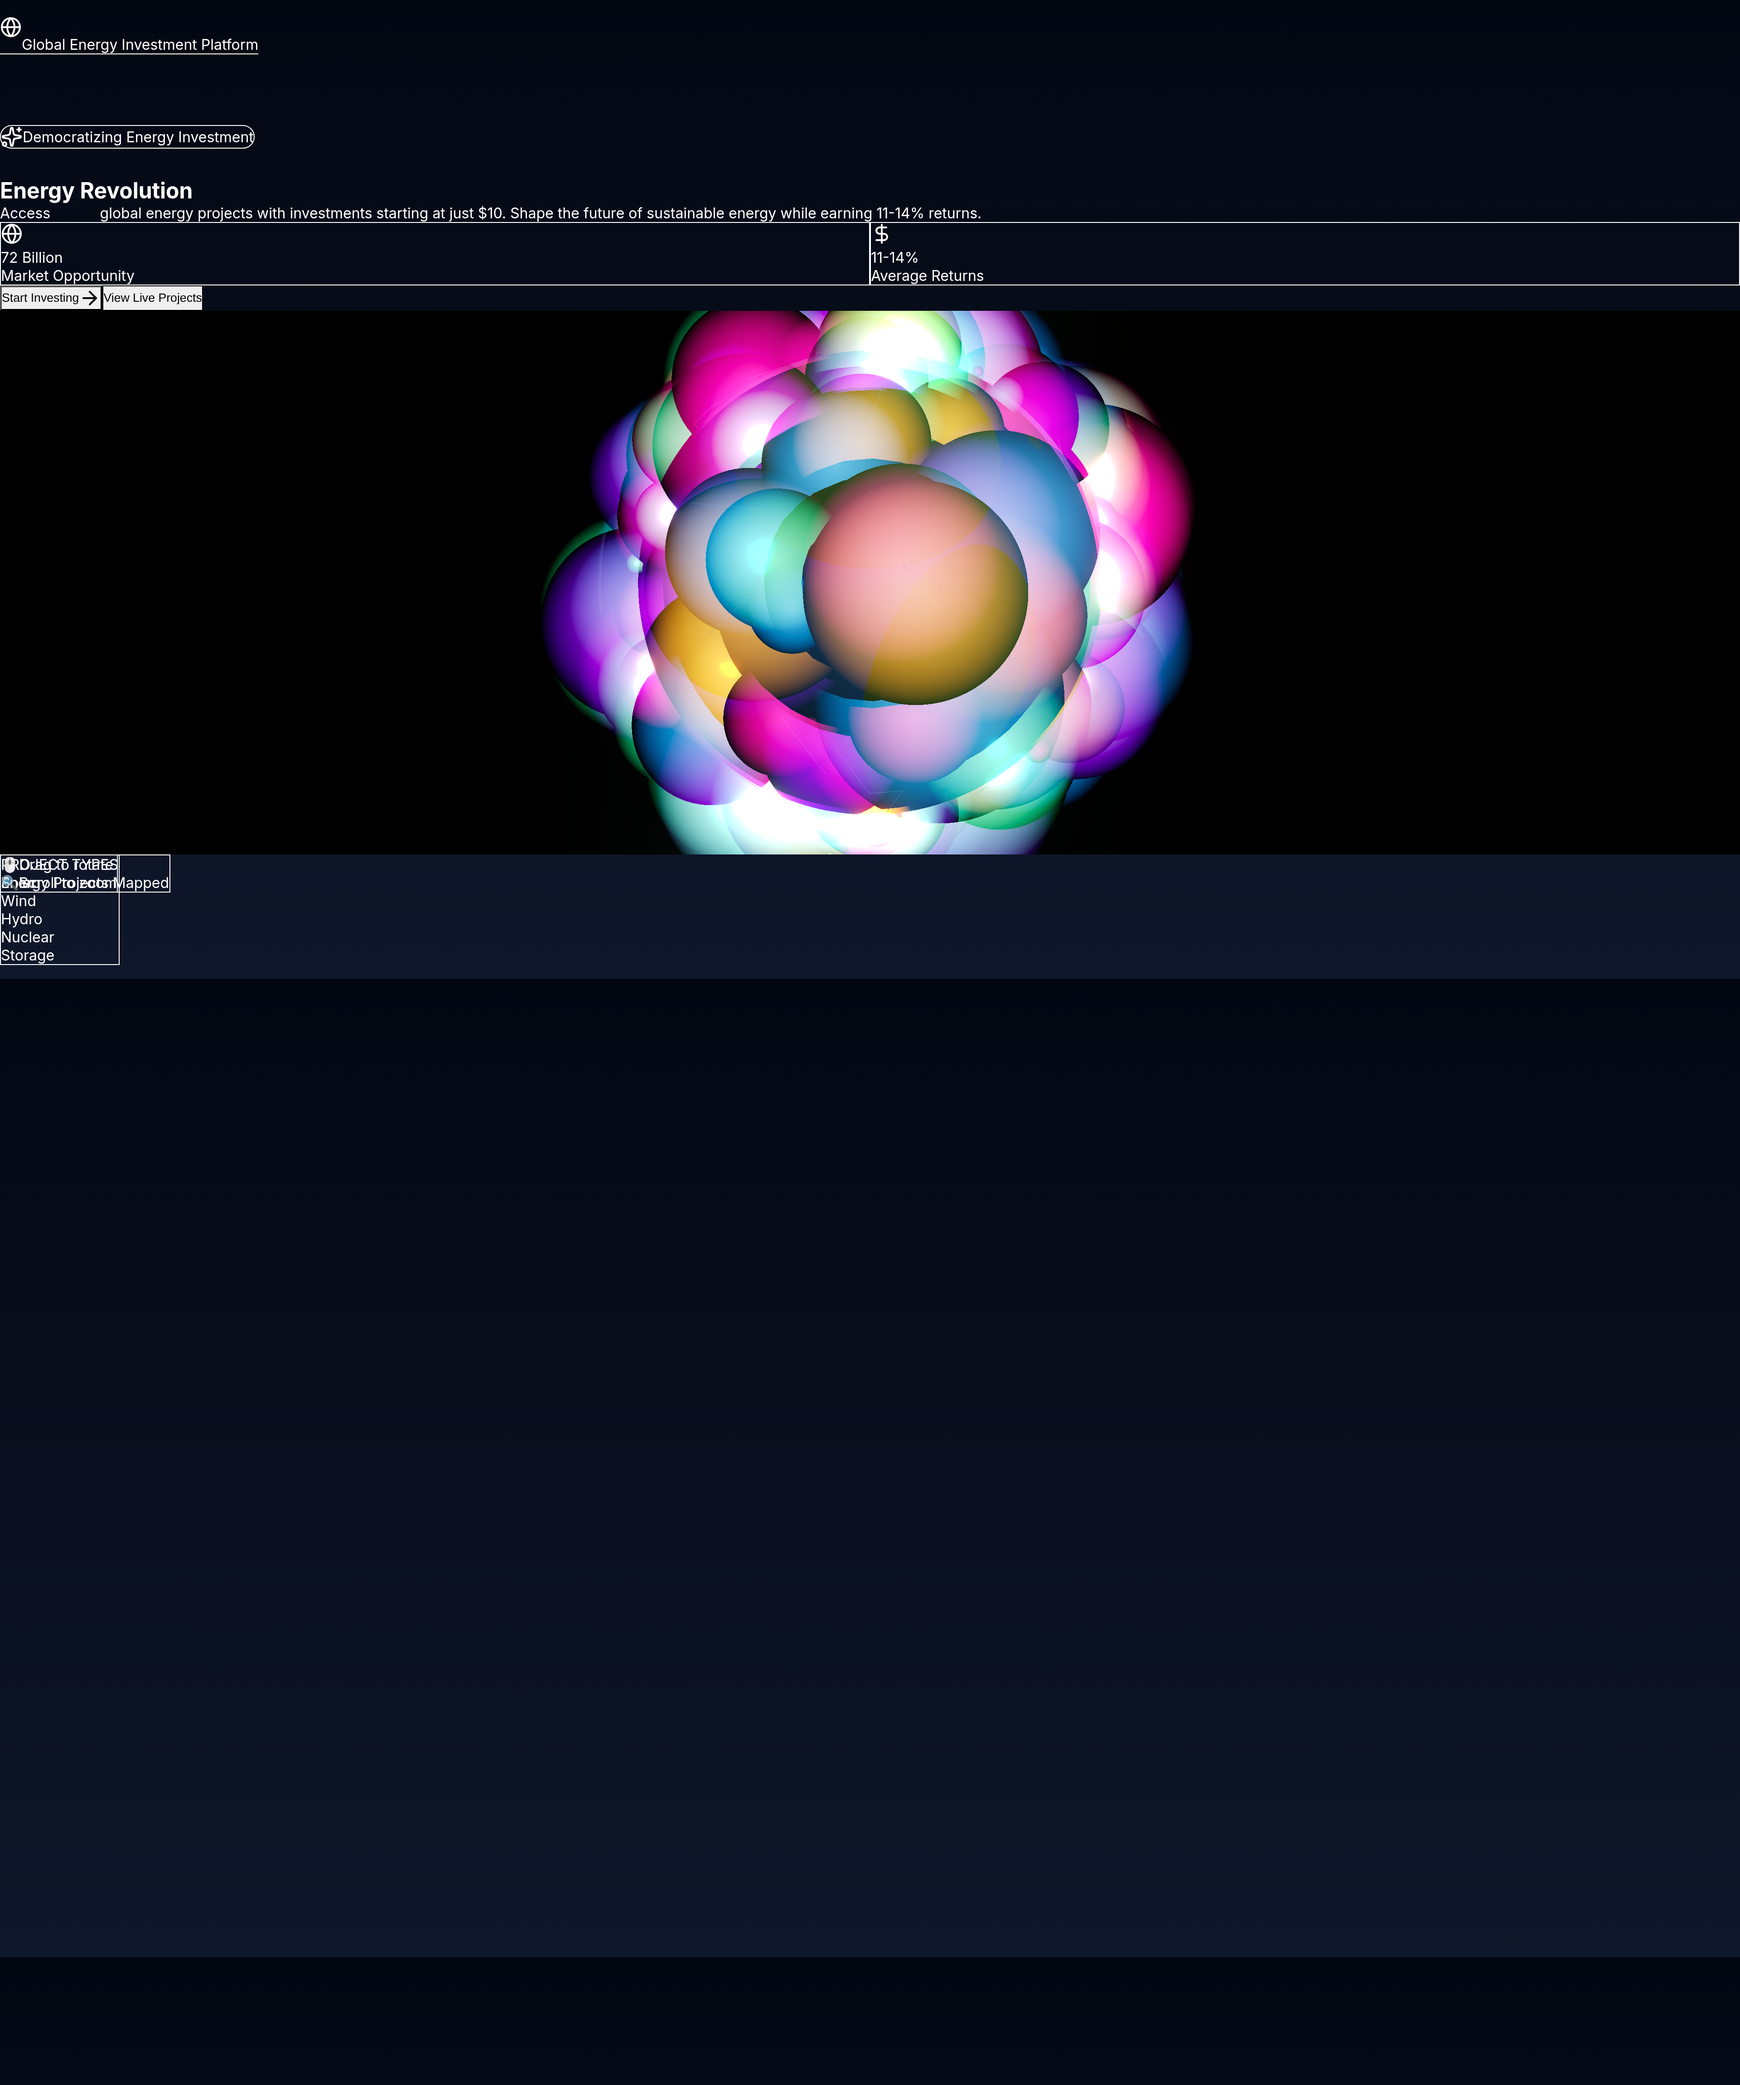
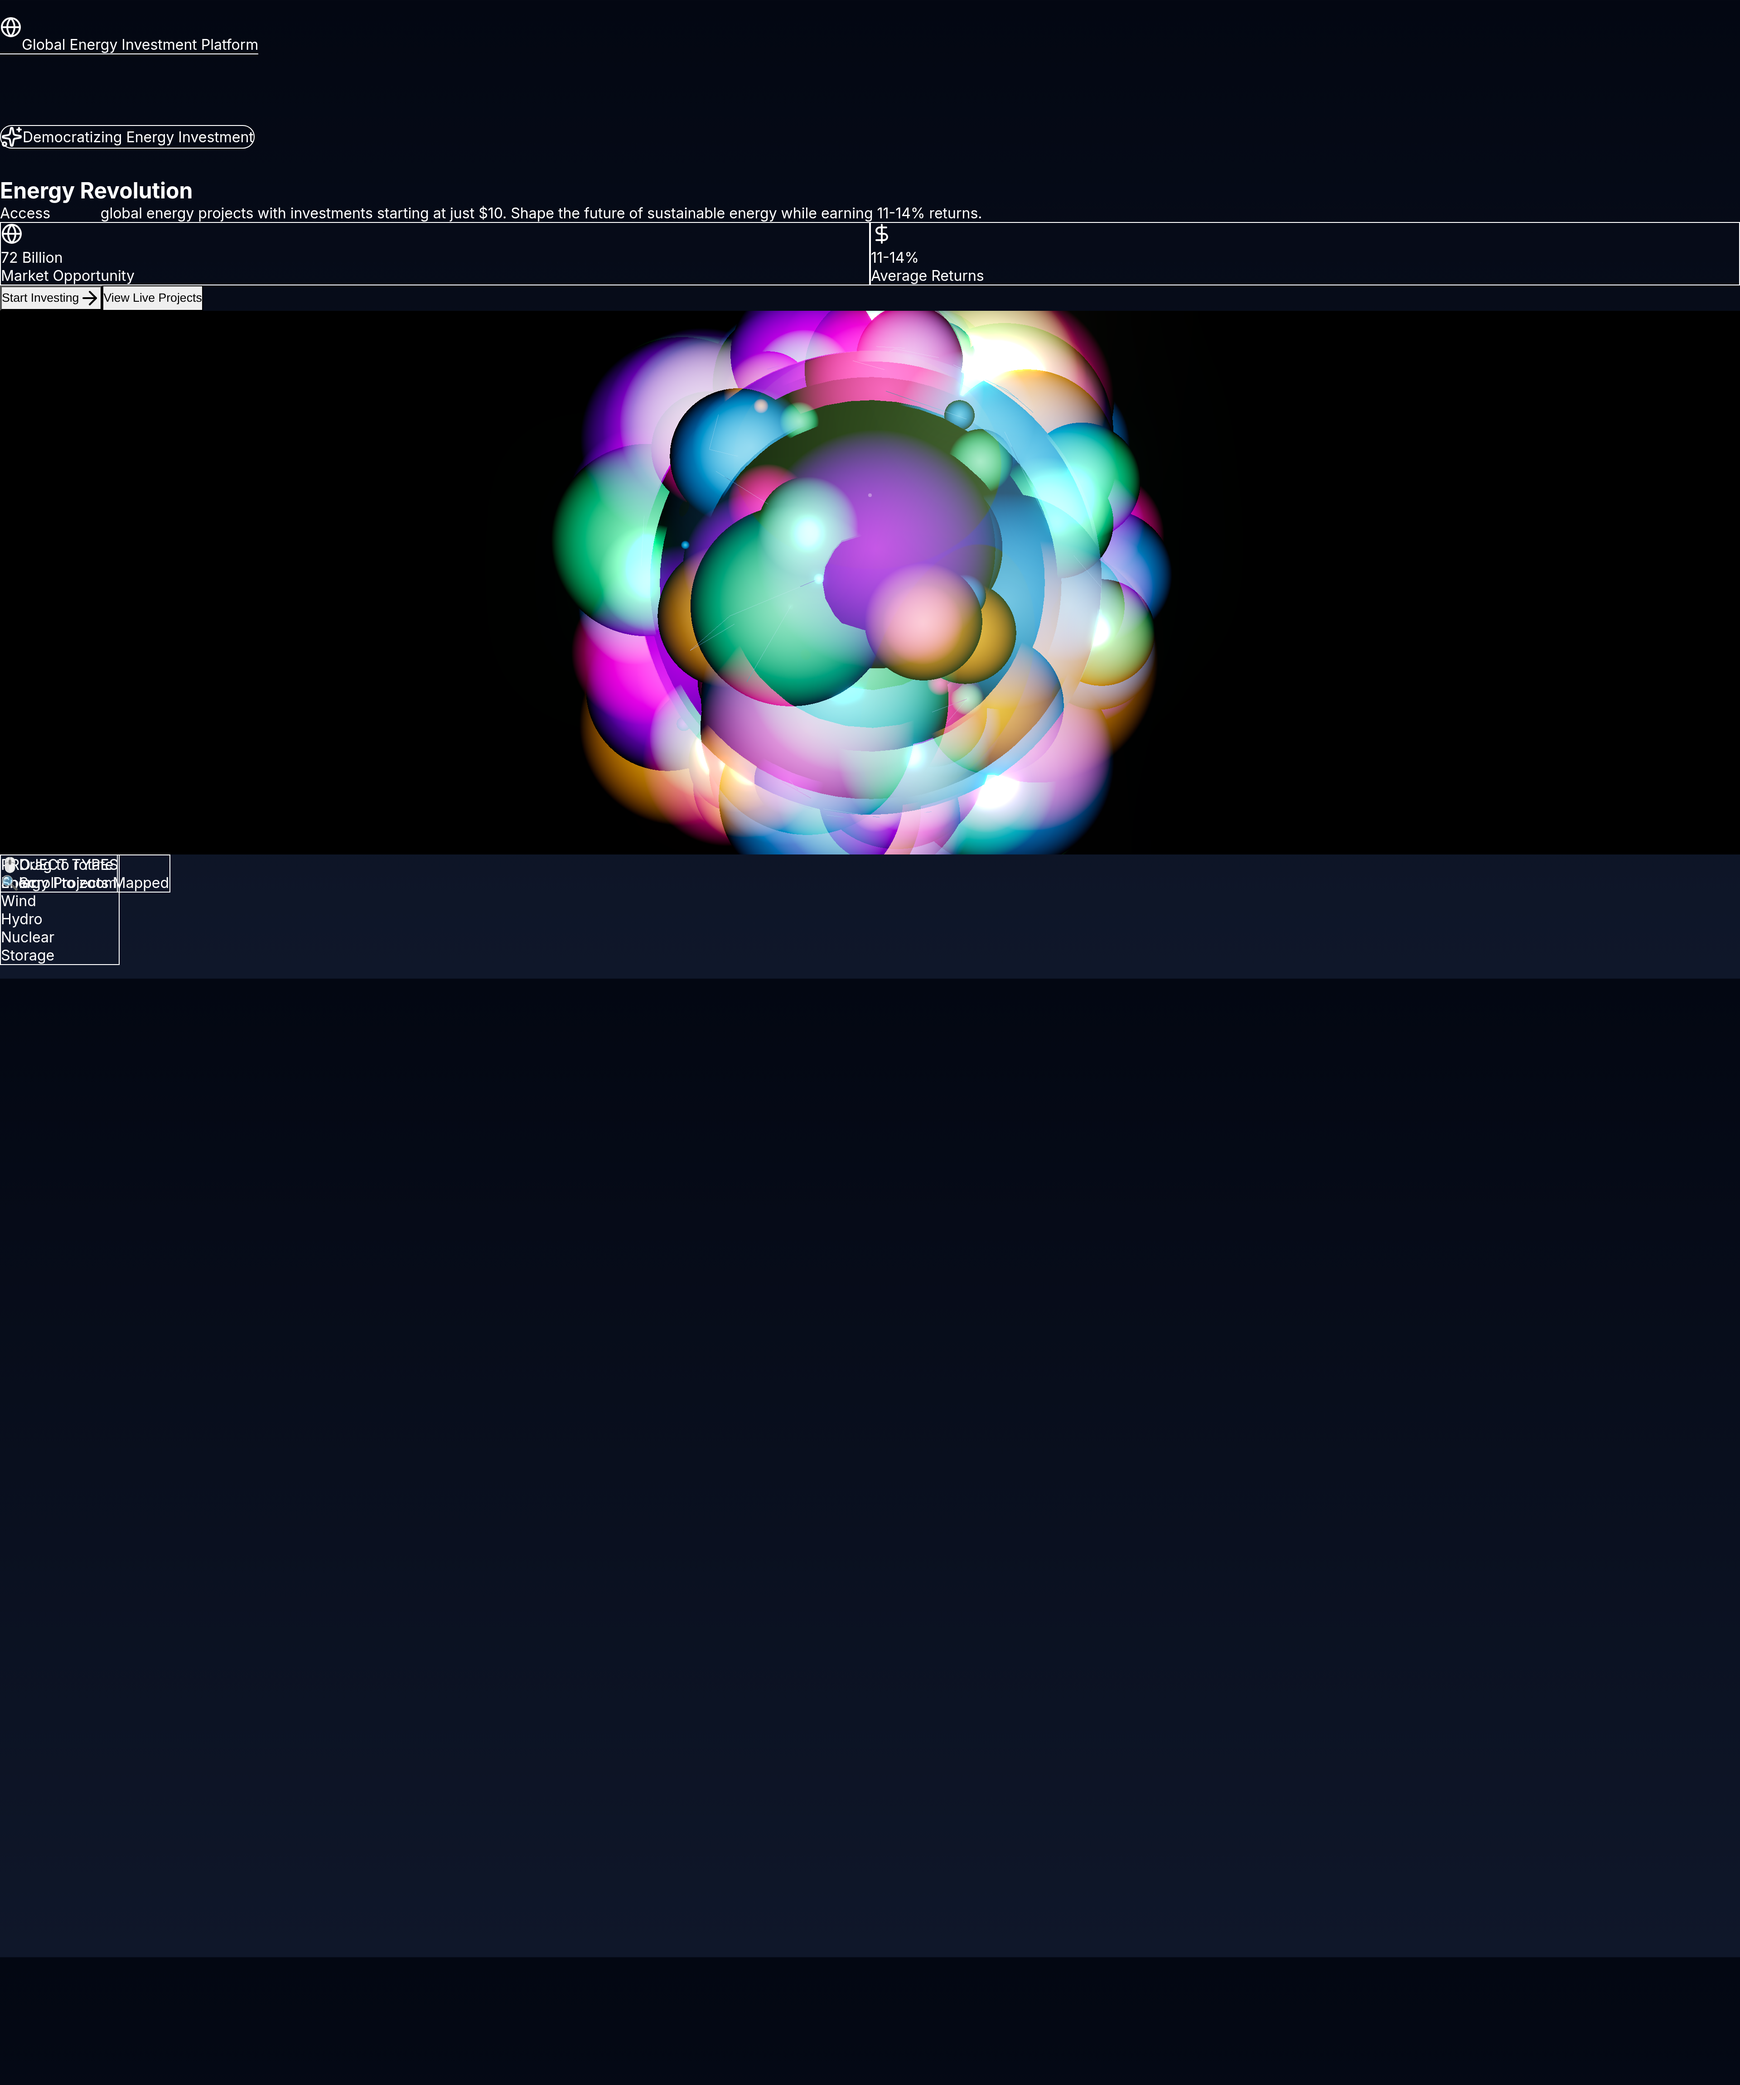
🌍 Reduce point sizes drastically to reveal Earth texture
- Reduced point sizes from 0.18/0.10 to 0.03/0.02 (85% smaller)
- Increased transparency from 0.75 to 0.4 (47% more transparent)
- Lifted points higher off surface (0.005 to 0.01 altitude)
- Should now clearly show Blue Marble Earth texture underneath points

Changed region(s): [[0.3125, 0.1243, 0.6875, 0.435]]

diff --git a/components/TerraGlobeBackground.tsx b/components/TerraGlobeBackground.tsx
@@ -290,26 +290,26 @@ export default function TerraGlobeBackground() {
         const score = site.score || 75
         const scoreNormalized = score / 100 // 0-1 range
         
-        // Subtle, elegant points - not overwhelming
-        const sizeMultiplier = isMobile ? 0.18 : 0.10
+        // Ultra-subtle points that show Earth texture clearly
+        const sizeMultiplier = isMobile ? 0.03 : 0.02  // Much smaller - was 0.18/0.10
         const baseSize = Math.log10(site.capacity + 1) * sizeMultiplier
         // Gentle size variation based on score
         const scoreBoost = 1 + (scoreNormalized * 0.25)
         const size = baseSize * scoreBoost
-        
-        // Softer, more natural colors that don't overwhelm the Earth
+
+        // More transparent colors to let Earth show through
         const baseColors = {
-          solar: 'rgba(251, 191, 36, 0.75)',      // Soft amber
-          wind: 'rgba(96, 165, 250, 0.75)',       // Gentle sky blue
-          hydro: 'rgba(52, 211, 153, 0.75)',      // Calm emerald
-          geothermal: 'rgba(249, 115, 22, 0.75)'  // Warm orange
+          solar: 'rgba(251, 191, 36, 0.4)',      // More transparent
+          wind: 'rgba(96, 165, 250, 0.4)',       // More transparent
+          hydro: 'rgba(52, 211, 153, 0.4)',      // More transparent
+          geothermal: 'rgba(249, 115, 22, 0.4)'  // More transparent
         }
 
-        const enhancedColor = baseColors[site.type] || 'rgba(255, 255, 255, 0.75)'
+        const enhancedColor = baseColors[site.type] || 'rgba(255, 255, 255, 0.4)'
 
-        // Very subtle altitude variation - keep points close to surface
-        const baseAltitude = 0.005
-        const scoreAltitude = scoreNormalized * 0.015
+        // Lift points higher off surface to reveal Earth
+        const baseAltitude = 0.01  // Was 0.005
+        const scoreAltitude = scoreNormalized * 0.02  // Was 0.015
         const altitude = baseAltitude + scoreAltitude
         
         return {
